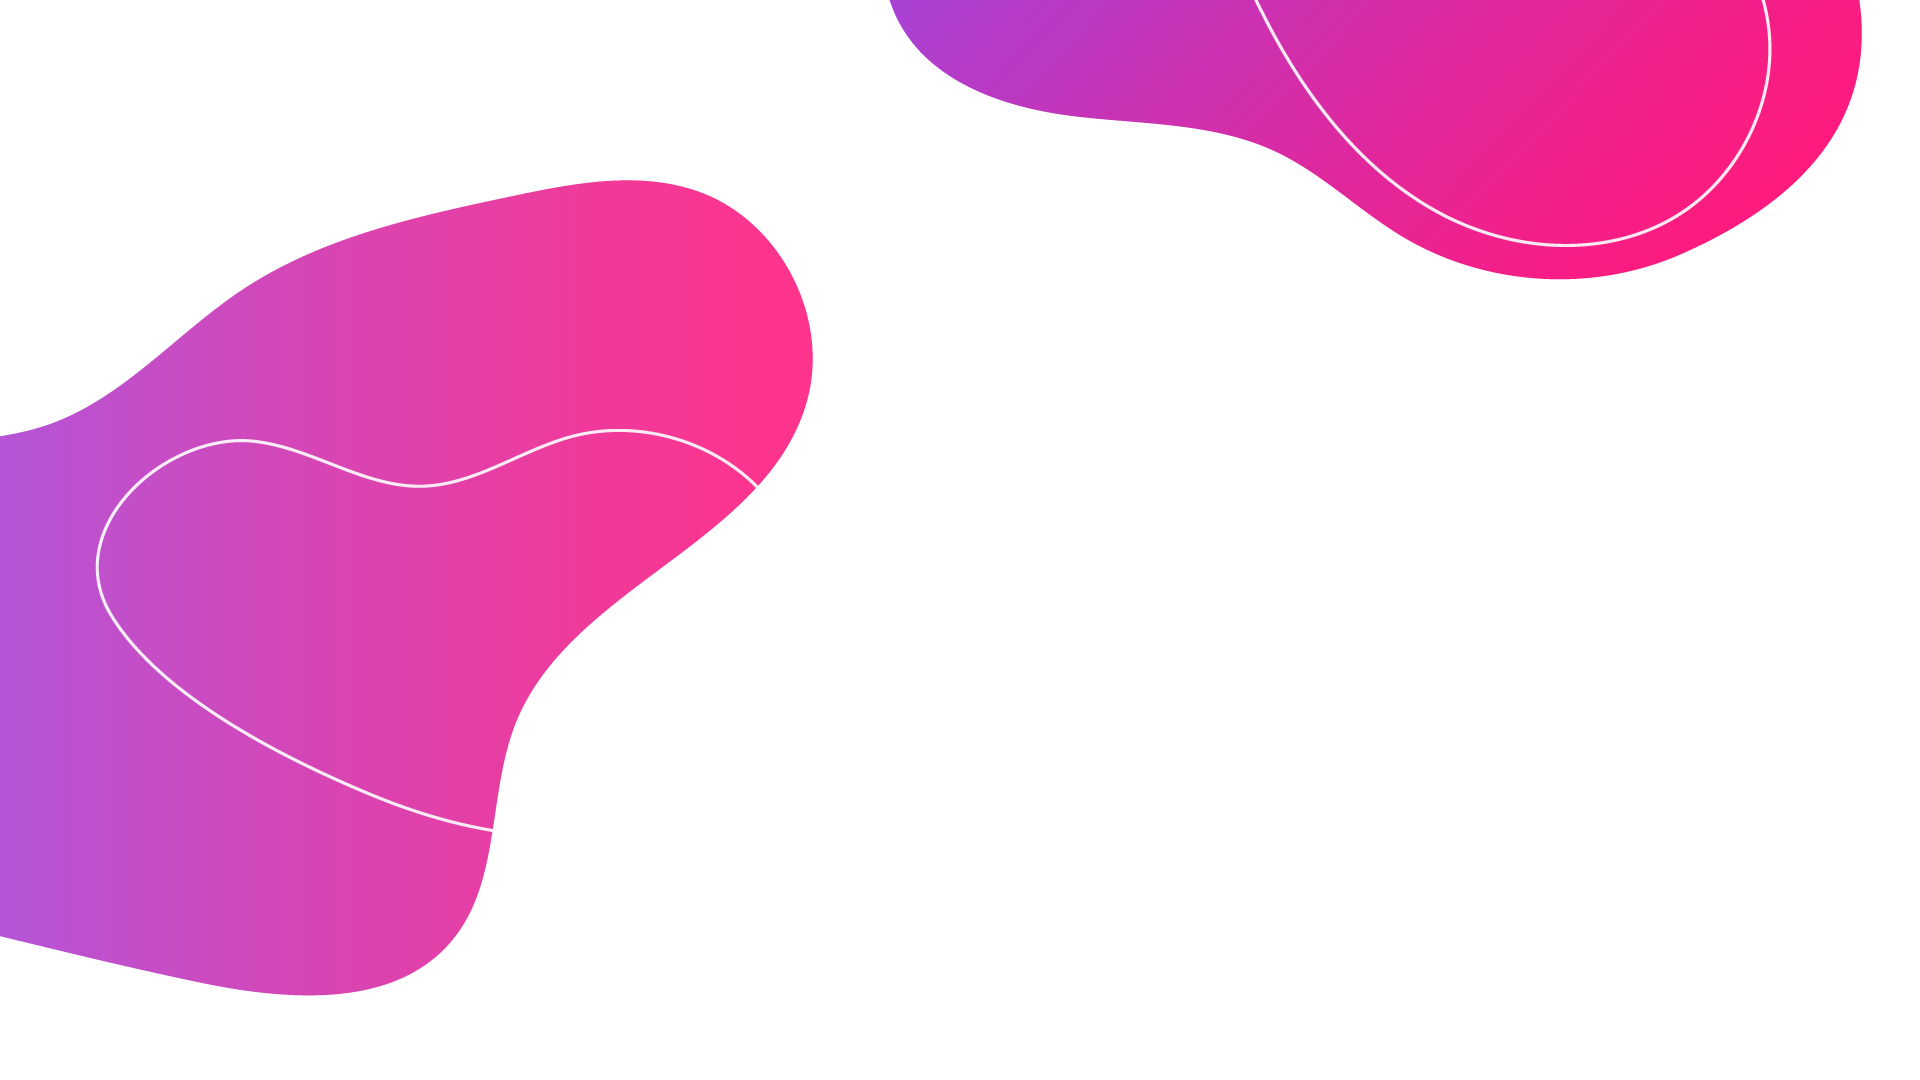
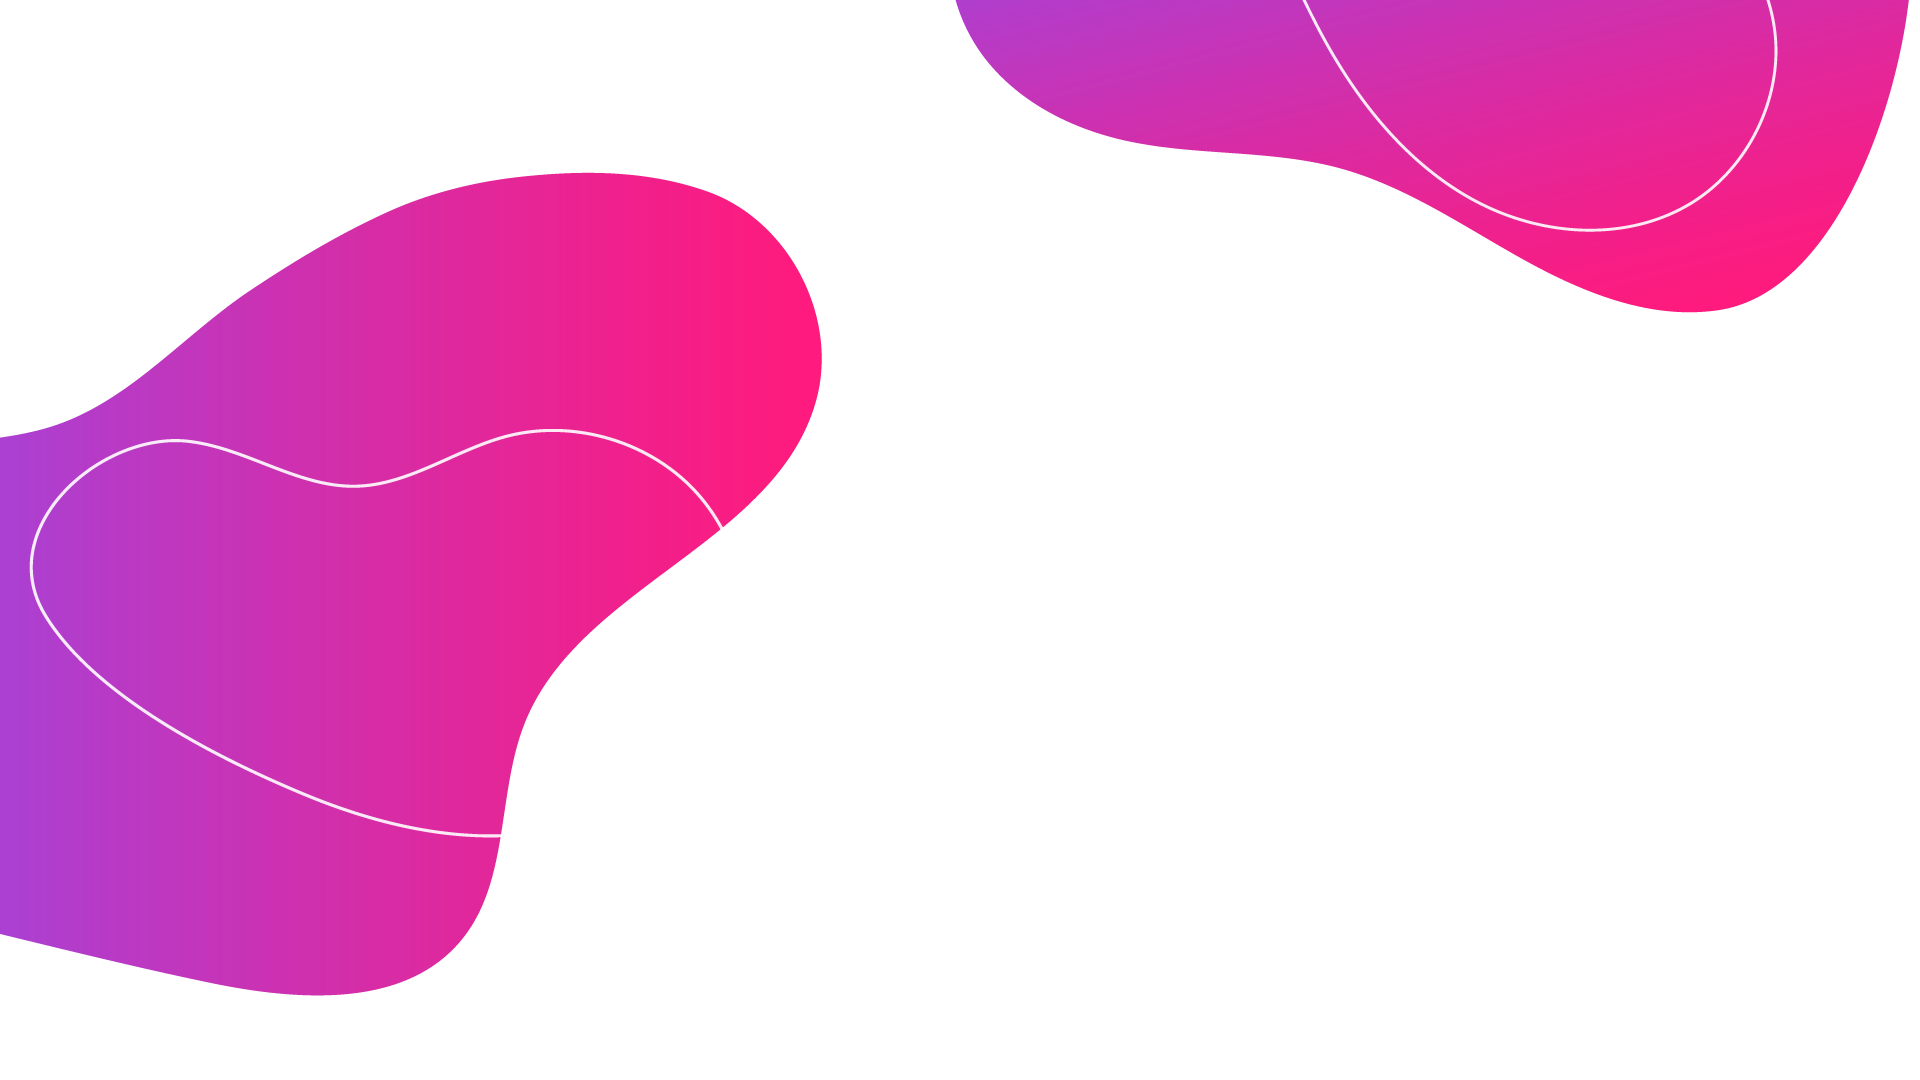
Add files via upload

diff --git a/index.html b/index.html
@@ -47,7 +47,7 @@
                         <br/><br/>
                     </div>
                     <div class="col-xl-6">
-                        <img class="img-fluid d-block mx-auto" src="assets/img/landing-page-component-01-01-01.png" alt="" /><br/>
+                        <img class="img-fluid d-block mx-auto" src="assets/img/landing-component-01.png" alt="" /><br/>
                     </div>
                 </div>
             </div>
@@ -80,10 +80,14 @@
                         <h4 class="my-3">PERSONALIZE<br/>YOUR SEARCH</h4>
                         <p class="text-muted">Lots of options, customized just for you!</p>
                     </div>
+                </div><br/><br/><br/><br/><br/><br/>
+                <div class="container" id="quiz">
+                    <br/><br/>
+                    <img class="img-fluid d-block mx-auto" src="assets/img/steps.gif" alt="" /><br/>
                 </div>
             </div>
         </section>
-        <!-- Quiz -->
+        <!-- Quiz 
         <section class="page-section" id="quiz">
             <div class="container">
                 <img class="img-fluid d-block mx-auto" src="assets/img/steps.gif" alt="" /><br/>
@@ -91,7 +95,7 @@
                     <h4 class="text-muted"><b>Quiz coming soon!</b></h4>
                 </div>
             </div>
-        </section>
+        </section> -->
         <!-- Newsletter-->
         <section class="page-section bg-light" id="newsletter">
             <div class="container" align="center">

diff --git a/css/styles.css b/css/styles.css
@@ -10477,8 +10477,8 @@ header.masthead .masthead-heading {
   margin-bottom: 0;
 }
 
-section#quiz {
-  background-image: url("../assets/img/quiz-background-01.png");
+section#about {
+  background-image: url("../assets/img/gif_background-01.png");
   background-repeat: no-repeat;
   background-position: center;
 }
